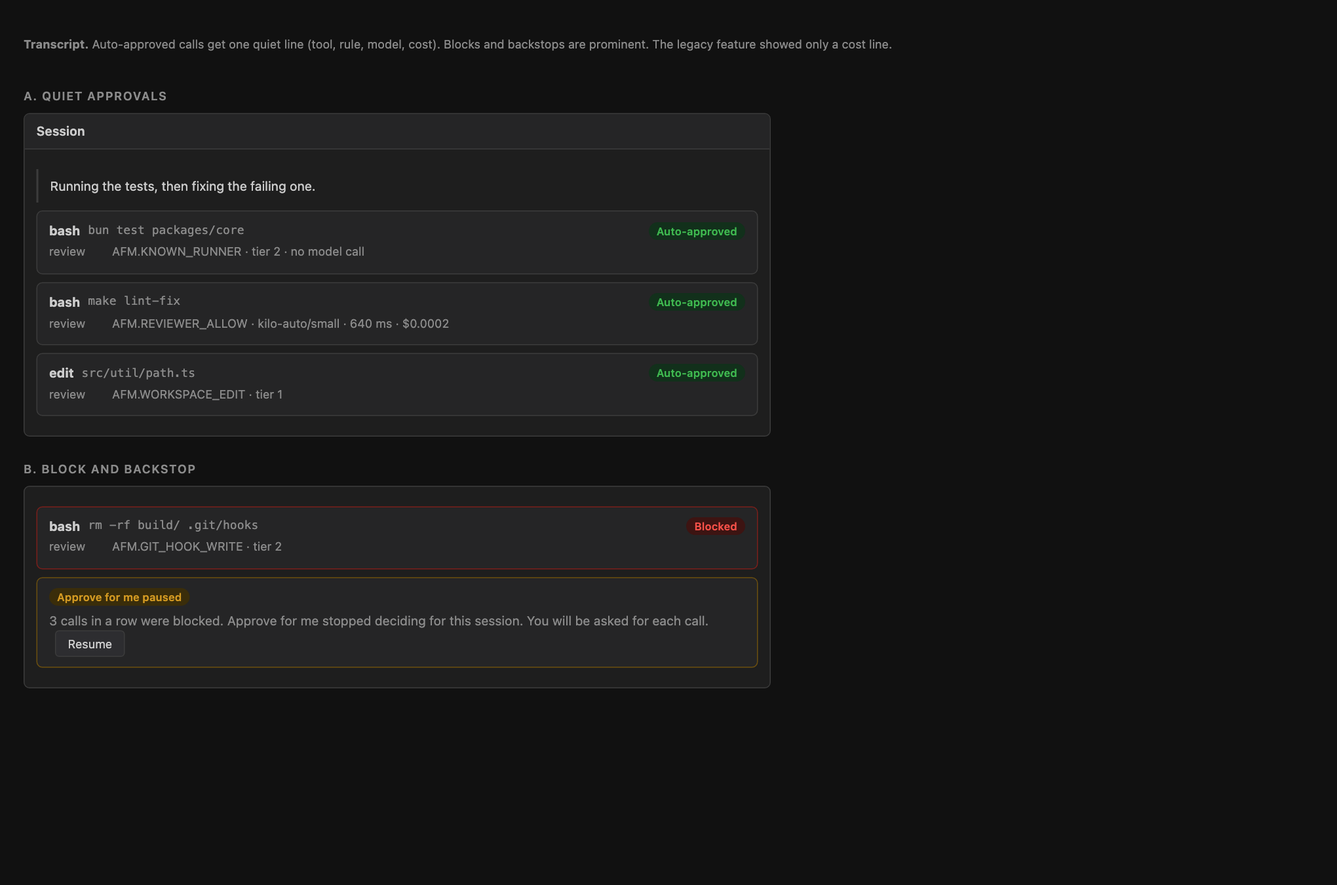
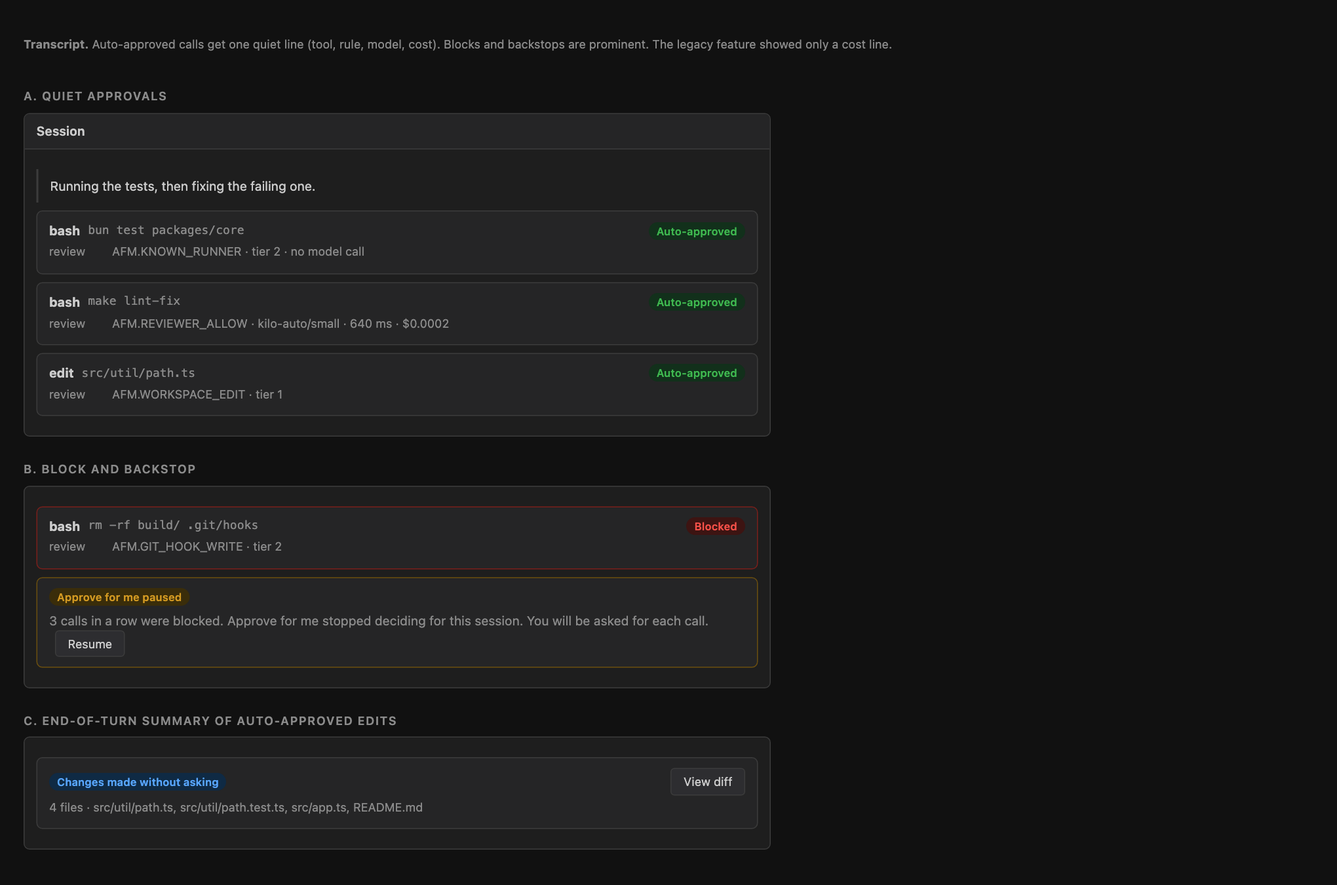
docs: resolve second-review security findings in the approve-for-me plan

Changed region(s): [[0.0309, 0.8711, 0.3088, 0.9333], [0.0309, 0.8089, 0.3088, 0.84], [0.4941, 0.84, 0.5868, 0.9022]]

diff --git a/plans/approve-for-me/mockups/03-transcript.html b/plans/approve-for-me/mockups/03-transcript.html
@@ -13,4 +13,7 @@
 <div class="line"><span class="t dim">review</span><span class="dim">AFM.GIT_HOOK_WRITE · tier 2</span></div></div>
 <div class="card warn"><div class="row"><span class="pill warn">Approve for me paused</span><span class="grow"></span></div>
 <div class="dim" style="margin-top:6px">3 calls in a row were blocked. Approve for me stopped deciding for this session. You will be asked for each call. <span class="btn" style="margin-left:6px">Resume</span></div></div></div></div></div>
+<div><h1>C. End-of-turn summary of auto-approved edits</h1><div class="frame wide"><div class="body">
+<div class="card"><div class="row"><span class="pill info">Changes made without asking</span><span class="grow"></span><span class="btn">View diff</span></div>
+<div class="line"><span class="dim">4 files · src/util/path.ts, src/util/path.test.ts, src/app.ts, README.md</span></div></div></div></div></div>
 </body></html>

diff --git a/plans/approve-for-me/design.md b/plans/approve-for-me/design.md
@@ -3,7 +3,7 @@
 Line numbers refer to `main` at `9d0f7a1dd8`. They drift. Re-check them when you implement.
 Paths starting with `P/` mean `packages/opencode/src/`.
 
-Security: the requirements from the security review are in section 12 (`SEC-1` to `SEC-11`) and are enforced in the sections they touch. Sections 1.2, 2.1, 2.5 to 2.9, 3, 5.2, 5.3, 6.1, 6.2, 8, 10 and 11 changed because of them.
+Security: the requirements from the security review are in section 12 (`SEC-1` to `SEC-13`) and are enforced in the sections they touch. Sections 1.2, 2.1, 2.5 to 2.11, 3, 5.1 to 5.3, 6.1, 6.2, 8, 10 and 11 changed because of them. A second review added `SEC-12` and `SEC-13` and nine medium items.
 
 ## 0. Mode model
 
@@ -113,6 +113,9 @@ So the reviewer never edits the ruleset. Instead:
 2. It issues a grant only if **every** pattern evaluates to `ask`. If any pattern is `deny`, vetoed, protected, or `forceAsk` (except the escalation case in 2.5), the verdict is forced to `pass` and the normal flow runs.
 3. The grant is passed to `Permission.ask` as a per-call argument `reviewed: { patterns, id }`. Inside `Permission.ask` a pattern with action `ask` and a matching grant is treated as allowed.
    A pattern with any other action ignores the grant. The grant has no wildcard form. It carries the exact patterns that were reviewed.
+   **The grant type is server-only (SEC-13).** It lives in the TypeScript-only extension of `AskInput`, like `hardRuleset` (`P/permission/index.ts:49`). It is never added to `PermissionV1.AskInput` or to `Request.fields`
+   (those feed the `permission.asked` event and the wire schema, `packages/schema/src/v1/permission.ts:27-66`), and it is never read from `metadata`, which plugin tools fill freely (`packages/plugin/src/tool.ts:19-27`).
+   No HTTP route decodes `AskInput` today. A test asserts that `metadata.reviewed`, `metadata.grant` and similar keys from a plugin tool have no effect.
 4. This needs one small marked change in `Permission.ask` (shared file). It is the only change planned there. It is covered by a property test (section 10): for every generated ruleset and request, a grant never turns `deny`, a hard veto, a protected path or a `skillShell` request into an allow.
 
 Either way `reply()` is never called by the reviewer, so `interactive` semantics stay intact.
@@ -220,8 +223,11 @@ With a default-on sandbox that is not workable: ordinary Git and network use wou
 
 1. Deterministic rules run first and cannot be overridden: git hook writes, `core.hooksPath`, config and control-plane writes, system paths,
    secret reads, destructive patterns. They give `ask` or `block`. In v1 the reviewer may only approve escalations in these deterministic classes:
-   `git add`, `git commit`, `git status` and `git diff` inside the workspace repository (with no `-c` or `--git-dir` flags), and network access to hosts already in `sandbox.allowed_hosts`.
-   Every other escalation asks the human until the PR 9 data supports widening. Dependency installs always ask (install scripts run unsandboxed).
+   `git add`, `git status` and `git diff` inside the workspace repository, pathspec-aware (section 2.10), with no `-c` or `--git-dir` flag and no `GIT_*` variable in the command.
+   **`git commit` asks in v1.** An escalated commit runs hooks and commit signing unsandboxed (`policy.ts:634-636`), and signing would use your key for a commit the reviewer approved.
+   It can join the fixed classes later only if the manifest (2.6) covers `.git/hooks/*`, `.git/config`, the `core.hooksPath` target and `.husky/**`, signing is off, and no hook exists that the human has not seen.
+   **Network escalations are not approved by the reviewer in v1.** A host already in `sandbox.allowed_hosts` needs no escalation, so a "host in the allowlist" class is empty or ambiguous. Network classes are defined from PR 9 data.
+   Every other escalation asks the human. Dependency installs always ask (install scripts run unsandboxed).
 2. Scope is the narrowest one: a per-call grant (section 1.2) for the exact normalized request. Never an `always` rule, never a saved host or path.
 3. The reviewer sees the denied capability as a fact (`denied: { network: "registry.npmjs.org:443" }`), and never the model-written justification text.
 4. Shadow mode first: record what the reviewer would do next to the human decision before the first real auto-approved escalation.
@@ -255,13 +261,15 @@ Rule: edits to the **executable-config class** are always `ask` (tier 0), throug
 | CI and hooks | `.github/workflows/**`, `.gitlab-ci.yml`, `.husky/**`, `.githooks/**`, `.gitattributes`, `.pre-commit-config.yaml` |
 | Shell and env | `.envrc`, `.tool-versions`, `.npmrc`, `.yarnrc*`, `bunfig.toml`, `.cargo/config*` |
 | Build and task runners | `package.json`, `Makefile`, `justfile`, `Taskfile*`, `Dockerfile*`, `docker-compose*`, `setup.py`, `pyproject.toml`, `tox.ini`, `pytest.ini`, `conftest.py`, `build.rs`, `Cargo.toml`, `*.gradle*`, `pom.xml` |
+| Executable files | any file with the executable bit or a shebang line, `scripts/**`, `bin/**`, `*.sh`, `*.mk`, `Rakefile`, `Gemfile`, `CMakeLists.txt`, `meson.build`, `deno.json*`, `mise.toml`, `flake.nix` |
 | Tool configs that run code | `*.config.{js,cjs,mjs,ts}`, `.babelrc*`, `.eslintrc*`, `jest.config.*`, `vitest.config.*`, `webpack.config.*`, `vite.config.*` |
 
-The list lives in one table in code and has a test per group. Adding to it needs no design change.
+The list lives in one table in code and has a test per group. Adding to it needs no design change. A name list is incomplete by nature, so the executable-bit and shebang rule classifies by content, not by name.
+Paths are normalised (NFC, case-folded, `realpath`) before matching.
 
 The manifest check covers files written by a running program (a test that rewrites the Makefile):
 
-- At session start, and after every edit the **human** approved, the engine records a hash of every file in the class (a manifest).
+- At session start, and after every edit the **human** approved, the engine records a hash of every file in the class (a manifest). The manifest also records **absence** (a new `Makefile` is a change) and includes `.git/config`, the non-sample files in `.git/hooks/`, and the `core.hooksPath` target directory.
 - Before approving a known runner, a reviewable call, or any escalation, it compares the current hashes with the manifest.
 - A mismatch means "changed outside human review". All runners and all escalations ask for the rest of the session, until the user acknowledges the change in a prompt that shows what changed.
 
@@ -277,7 +285,7 @@ Rules:
 
 1. `webfetch` and `websearch` are **ask by default** in this mode. The reviewer does not decide them.
 2. Narrow allowlist, decided by rules (no model): `https` only, exact host in a small built-in docs list plus the user's own list, no userinfo, no query string, no fragment, path length cap, port 443.
-3. Deterministic SSRF guard in the tool itself (prerequisite, section 12): block loopback, private, link-local and metadata addresses, check the resolved address and **every redirect hop**, reject non-http(s) schemes, reject userinfo.
+3. Deterministic SSRF guard in the tool itself (prerequisite, section 12): block loopback, private, link-local and metadata addresses, check the resolved address and **every redirect hop**, reject non-http(s) schemes, reject userinfo. **Pin the checked address to the connection** (no second lookup, to stop DNS rebinding). Normalise IPv6 (`::1`, `fc00::/7`, `::ffff:127.0.0.1`) and numeric IP forms (decimal, octal, hex) and trailing-dot hosts before checking. Apply the exact-host allowlist again on **every redirect hop**: a redirect to another host asks.
 4. **Sensitive-read taint.** After the session reads a sensitive-class file, every call that can send data out asks for the rest of the session. Outbound-capable means `webfetch`, `websearch`,
    MCP tools, `bash` with a network command or a network escalation, and `browser-open`. Sensitive class: the existing secret globs (`.env*`, `.netrc`, `.npmrc`, `id_*`, keystores, `.ssh`, `.aws`, `.kube`, `.docker`, `.gnupg`),
    cloud and CI credential files, `*.pem`, `*.key`, `terraform.tfstate*`, `credentials*`, and `.git/config`. The taint is per root session and survives subagents.
@@ -305,6 +313,28 @@ A committed `kilo.json` can set `permission` allow rules with no trust prompt (`
 count as `ask` before review, so the reviewer still decides. Global, managed and `KILO_PERMISSION` rules are honored, as they come from the user or the organisation.
 This matches how the sandbox scope treats project config (a project may tighten, never loosen).
 
+### 2.10 Secrets that reach the model by other routes (SEC-12)
+
+The sensitive-read taint (2.7) would only fire on the `read` tool. Secrets also reach the model through paths the taint cannot see today:
+
+- **`grep` and `glob`.** The permission pattern is the regex or glob, not a file path (`P/tool/grep.ts:43-53`), and `ReadPermission.harden` applies to `read` only (`P/kilocode/permission/read.ts:12`).
+  `grep` runs rg with `--hidden` and excludes only `.git` (`packages/core/src/ripgrep.ts:293-297`), so an untracked `.env`, `.npmrc` or `id_rsa` that is not git-ignored is searched and its matching lines are returned.
+- **Git read commands.** `git diff`, `git log -p`, `git show`, `git grep` and `git cat-file` are treated as read-only (`P/kilocode/agent/index.ts:87-109`, `P/kilocode/sandbox/git.ts`), with no pathspec handling. `git diff -- .env` prints a tracked secret.
+- **Programs.** A sandboxed runner can read any file (macOS allows `file-read*` globally, `seatbelt.ts:55`; Linux uses `--ro-bind / /`) and print it. The output reaches the model.
+
+Rules:
+
+1. `grep` and `glob` exclude the sensitive globs inside the tool (an ignore list added to the rg call). A search that names a sensitive path explicitly asks.
+2. Git read commands are pathspec-aware. Tier 2 appends exclusion pathspecs for sensitive globs, or asks when the repository tracks sensitive-class files and the command can print file contents.
+3. A **secret scanner runs on every tool output** before it reaches the model (cloud and CI token shapes, PEM headers, private-key blocks, `.env`-style `KEY=value` lines with high entropy). A hit sets the taint and shows a notice.
+4. The taint is set by any of these routes, not only by `read`. It stays per root session and survives subagents.
+
+### 2.11 Auto-approved edits stay visible
+
+Tier 1 auto-approves source edits, and the reviewer cannot protect against a harmful change in a file the sandbox only contains (a backdoor in source, a bad commit later).
+So every auto-approved edit is recorded, and at the end of each turn the client shows a short summary ("4 files changed without asking", with a link to the diff).
+Commits stay on the human path (2.5.3). The summary is a client feature in PR 6.
+
 ## 3. Tool coverage (v1 policy)
 
 Permission key to policy. Source for keys and metadata: the tool survey of `P/tool/*` and `P/kilocode/tool/*`.
@@ -313,7 +343,8 @@ Permission key to policy. Source for keys and metadata: the tool survey of `P/to
 |---|---|---|
 | `bash` | tree-sitter patterns; `command`, `description`, heredocs | Tier 2, then tier 3 |
 | `edit` (edit, write, apply_patch) | relative paths; `filepath`, `diff`, `filediff` | Tier 1 in workspace and ordinary; tier 0 for protected paths and the executable-config class (2.6) |
-| `read`, `glob`, `grep` | path or pattern | Tier 1; secret reads tier 0 |
+| `read` | path | Tier 1; secret reads tier 0 |
+| `glob`, `grep` | glob or regex (not a path) | Tier 1 only with the sensitive-glob exclusion and the output scan in 2.10. A result that touches a sensitive path sets the taint |
 | `external_directory` | `dir/*` | Tier 0 |
 | `webfetch` | `url`, `format` | Ask. Auto only for the exact-host docs allowlist in 2.7. Never reviewer |
 | `websearch` | `query` | Ask in v1 (a query can carry data out, 2.7). Revisit with data |
@@ -372,6 +403,9 @@ It never receives: chat history, assistant prose (including the tool `descriptio
 tool output, file contents, environment values, absolute paths outside the workspace, or secrets.
 A byte budget (about 8 KB) applies. If the decision-critical part does not fit, the reviewer is not called and the answer is `ask`.
 
+**Structure, not literals.** Argument literals are not sent as text. The program and flags from a known set are sent as they are. Every other literal becomes a typed placeholder (`<path:ordinary>`, `<number>`, `<string>`).
+Paths are sent as class plus the in-workspace relative path, after control and bidi characters are removed and the length is capped. Redaction of "secret-like" tokens is not relied on, because a heuristic misses cases.
+
 ### 5.2 Prompt
 
 Start from the legacy principles (`legacy-gatekeeper.md` section 4) and the #13893 framing. Skeleton:
@@ -387,6 +421,7 @@ Reply with JSON only: {"decision":"allow"|"keep_ask","reason_code":"SHORT_UPPER_
 Rules for the call:
 
 - No tools. `small: true`. One retry on transport error only, inside one shared deadline (3 to 5 s).
+- Temperature 0. For **escalations**, two independent calls with different prompt wording (and, when available, a second model) must both return `allow`. Any disagreement is `keep_ask`.
 - Parse: first `{` to last `}`, `JSON.parse`, `decision` must be exactly `allow` or `keep_ask`. Anything else is `keep_ask` with `AFM.INVALID_RESPONSE`.
   A missing `reason_code` becomes `UNSPECIFIED`. Never `startsWith`.
 - On timeout, error, abort or unparsable reply: `keep_ask`. Never allow on failure.
@@ -453,7 +488,9 @@ The `approve_for_me` config key was removed from that PR on purpose: nothing rea
    - The mode endpoints and the permission reply endpoint join that always-guarded set. Without a password they refuse. In that case Approve for me and Auto-approve are unavailable and sessions stay in Sandboxed (ask), with a warning.
    - `interactive` is documented as **not** a security boundary. Human-only protection relies on authentication.
    - A change to a looser mode (toward Auto-approve or sandbox off) is published as an event, shown in the transcript ("Mode changed to Auto-approve by <client>"), and recorded in telemetry.
-   - The tool environment keeps being scrubbed of server credentials (`P/kilocode/process/env.ts`). A test asserts it, and also that the sandbox blocks loopback in the sandboxed modes.
+   - The tool environment keeps being scrubbed of server credentials (`P/kilocode/process/env.ts`). A test asserts it, and also that the sandbox blocks loopback in the sandboxed modes (it does today: seatbelt denies outbound including loopback, bubblewrap uses an empty network namespace and hides host processes).
+   - Follow-up: move the credential out of the environment. Same-user processes can read an environment variable (`/proc/<pid>/environ`, `ps eww`). Use an inherited file descriptor or a mode-0600 Unix socket.
+   - Standalone `kilo serve` or `kilo run` without a credential cannot use Approve for me or Auto-approve. This follows from the design and must be confirmed as a product decision.
 7. **`always` is once-only in Approve for me.** An `always` reply writes a global rule (`P/permission/index.ts:342-366`) shared by all sessions and subagents, which would then bypass the reviewer. In this mode `always` is stored as once,
    or accepted only with a narrow pattern (no `*`, no bare-prefix wildcard) and a warning.
 8. **Child sessions inherit the stricter mode (SEC-9).** A subagent starts in the stricter of the parent's mode and its own default. Counters (backstop, escalation cap) and taints (2.6, 2.7) key on the **root** session, so spawning a child does not reset them.
@@ -462,6 +499,8 @@ The `approve_for_me` config key was removed from that PR on purpose: nothing rea
    - Import drops `permission` and `mode`, validates the rest, and starts the session in the user's default mode.
    - Moving a session between local and cloud never makes it looser: the destination takes the stricter of the source mode and the destination default. Auto-approve and sandbox-off always need a new confirmation on the destination.
    - A test imports a crafted file and asserts that the ruleset and mode are not applied.
+10. **Managed policy.** Organisations can pin behavior with managed-scope keys only (ignored in global and project config): `approve_for_me.allowed_modes`, `approve_for_me.escalation_approval` (`on` or `off`), `approve_for_me.model`, and `sandbox.required`. An admin can disable Auto-approve and Approve for me entirely. Managed config already exists (`P/config/config.ts:973-1003`).
+11. **Consent for the review stage.** The first time the stage is `review` or `on`, show a one-time notice that structured command facts go to the reviewer model's provider, even in shadow mode where nothing is enforced. Respect `privacy_mode`.
 
 ### 6.3 Required chores for any new config key
 
@@ -508,6 +547,9 @@ Invariants (each gets a test):
 11. No allow cache. Reviewer settings come from environment and global config only, and the provider entry must match the global one (SEC-3, SEC-5).
 12. Mode and permission state never arrive from a project, an import or a share, and the mode API needs authentication (SEC-7, SEC-8).
 13. Project-scope allow rules do not bypass review in this mode (SEC-10).
+14. The grant exists only in server code. It is never in a schema, an event or `metadata` (SEC-13).
+15. Tool output that looks like a secret sets the outbound taint, whatever tool produced it (SEC-12).
+16. Escalations approved by the reviewer are limited to the deterministic classes in 2.5.3. Commits and network escalations ask in v1.
 
 Threats and answers:
 
@@ -526,6 +568,11 @@ Threats and answers:
 | Parser and shell disagree (zsh, aliases, login rc, project `shell`) | Section 2.8: strict subset, bash or zsh only, differential tests |
 | Agent or file changes the mode or imports allow-all | Section 6.2 items 6 to 9 |
 | Project `kilo.json` allows everything | Section 2.9 |
+| A plugin tool or a client forges a grant | Server-only grant type, never read from `metadata` (1.2, SEC-13) |
+| Secrets reach the model through `grep`, `glob`, git read commands or program output | Section 2.10: tool-side exclusions, pathspec-aware git, output scanner, taint |
+| Escalated `git commit` runs hooks or signs unsandboxed | `git commit` asks in v1; manifest covers hooks (2.5.3, 2.6) |
+| Unreviewed source edit plants a backdoor | Section 2.11: recorded edits, end-of-turn summary, commits on the human path |
+| Reviewer text injection through argument literals | Structure-only input, temperature 0, two-call consensus for escalations (5.1, 5.2) |
 | Agent requests an escalation to get out of the sandbox | Section 2.5: deterministic rules first, narrowest scope, facts-only input, caps, shadow mode |
 | Repeated retries of a blocked call | Backstop: stop auto-deciding after 3 consecutive blocks or 5 in the last 20 calls, and tell the user (numbers from #13893 `continuation.ts:36`) |
 | Reviewer cost abuse or latency | Tiers first, cache, deadline, per-session call cap |
@@ -569,6 +616,8 @@ Evaluation:
   - SEC-7: mode and reply endpoints refuse without credentials. Tool environment contains no server credential. Loosening is logged.
   - SEC-8: crafted export and import files do not apply permission or mode. A session move never loosens.
   - SEC-9 and SEC-10: child mode and counters. Project-scope allow rule counts as ask.
+  - SEC-12: `grep` and `glob` never return `.env`, `.npmrc` or key files. `git diff -- .env` and `git show` of tracked secrets are excluded or ask. The output scanner sets the taint on token shapes and PEM blocks.
+  - SEC-13: `metadata.reviewed` and similar keys from a plugin tool have no effect. The grant type is absent from every schema and event.
   - SEC-11: a workspace `.vscode/settings.json` value for either setting has no effect. Writes go to user settings. At startup Approve for me wins.
 
 ## 11. Keeping the upstream diff small
@@ -606,7 +655,13 @@ Findings from the security review, and where each is resolved. IDs are used in c
 | SEC-10 | Project `kilo.json` can allow everything with no trust prompt | Local-scope allow rules count as `ask` in this mode | 2.9 |
 | SEC-11 | VS Code `autoApprove.enabled` could be set by a workspace file, live (fixed in #14636) | Scope both settings to the application (user only). Writes always go to user settings. `.vscode/` and IDE dirs protected as defense in depth | 6.1, #14636 |
 
+| SEC-12 | Secrets reach the model through `grep`, `glob`, git read commands and program output. The taint misses them | Tool-side exclusions, pathspec-aware git, output secret scanner sets the taint | 2.10 |
+| SEC-13 | The grant could be forged through the schema or plugin `metadata` | Server-only type, never in a schema, event or `metadata` | 1.2 |
+
 SEC-9, SEC-10 and the once-only `always` rule (6.2 item 7) were medium findings. They are included because they use the same code and would otherwise leave a gap in a high fix.
 
-Medium and low findings that stay open and are tracked in the roadmap: reviewer injection residuals and model drift (evaluation, PR 9), privacy and redaction of command text (PR 7, PR 10), prompt spoofing in the permission dock (PR 6),
-the JetBrains and other client-side auto-reply (PR 2), TOCTOU and parallel calls (PR 8 gate), backstop counting of asks (PR 8).
+The second review's medium findings are folded in: escalated commits and the network class (2.5.3), a wider executable-config class and manifest (2.6), SSRF details (2.7), structure-only reviewer input and consensus (5.1, 5.2),
+the consent notice, credential handling and managed policy (6.2), and visible auto-approved edits (2.11).
+
+Still open and tracked in the roadmap: reviewer injection residuals and model drift (evaluation, PR 9), prompt spoofing in the permission dock (PR 6), other clients that auto-reply, including JetBrains (PR 2),
+TOCTOU and parallel calls (PR 8 gate), backstop counting of asks (PR 8), the bubblewrap `.git` protection that is computed at launch (S6 follow-up).

diff --git a/plans/approve-for-me/roadmap.md b/plans/approve-for-me/roadmap.md
@@ -99,6 +99,8 @@ Done when: the corpus runs in CI; every attack in the seed corpus is `ask` or `b
 
 ### PR 6. Show the verdict (labels only)
 
+- End-of-turn summary of auto-approved edits ("4 files changed without asking", with a link to the diff), `design.md` 2.11.
+- The permission dock shows the full command, escapes control and bidi characters, and marks truncation (prompt spoofing).
 - VS Code `PermissionDock`: badge and localised one-line reason from the rule id. Escalation prompts show what the sandbox denied.
 - VS Code transcript line for recorded verdicts (hidden unless `review` or `on`).
 - TUI prompt and footer. JetBrains: render `meta.raw` review fields.
@@ -111,7 +113,9 @@ Done when: a flagged command shows a label in all three clients, with no change 
 - Reviewer module: input builder with byte budget, prompt, strict parser, deadline and retry, live re-check, per-session cache.
 - Model resolution through the S3 resolver (global config or env only, provider equality, pinned model id); reject OpenAI providers for this role; clear message when no model is available.
 - No allow cache (SEC-5). Only ask results may be cached.
-- Redaction of secret-like tokens in argv and URLs before anything is sent (privacy, medium finding).
+- Structure-only reviewer input: typed placeholders for argument literals, path class plus capped, cleaned relative path (`design.md` 5.1). No reliance on token redaction.
+- Temperature 0, and two-call consensus (different prompt wording, second model when available) for escalations.
+- One-time consent notice before the `review` or `on` stage sends facts to the reviewer's provider; honor `privacy_mode` (`design.md` 6.2 item 11).
 - Input hardening: JSON-encode all strings, strip control and bidi characters, length caps.
 - Cost and latency recorded in `metadata.review`, telemetry, and the task cost.
 - Tests with `TestLLMServer`: allow, keep_ask, garbage, empty, timeout, abort, oversized input (reviewer not called), injection strings in argv.
@@ -130,11 +134,13 @@ Done when: in `review` stage the reviewer runs on `reviewable` calls and escalat
 
 Security gate. PR 8 does not merge until all of these hold:
 
-- S1 to S5 are merged and #14636 has its SEC-11 changes.
+- S1 to S6 are merged and #14636 has its SEC-11 changes.
 - Every security test group in `design.md` section 10 passes in CI.
 - The grant property test runs in CI on every change to `Permission.ask`.
 - The shell differential corpus passes for bash and zsh.
-- Escalation approval is limited to the deterministic classes in `design.md` 2.5.3 (widening waits for PR 9 data).
+- Escalation approval is limited to the deterministic classes in `design.md` 2.5.3: `git add`, `status` and `diff`. `git commit` and network escalations ask in v1 (widening waits for PR 9 data and the hook manifest).
+- The output secret scanner, the `grep` and `glob` exclusions and pathspec-aware git (S6, `design.md` 2.10) are enabled and tested.
+- The grant type is server-only: no schema, event or `metadata` carries it (SEC-13 test).
 - Review of the TOCTOU gap: paths are re-resolved inside the tool at execution time, and reviewed calls run one at a time per session. Record the result in the PR.
 - A reviewer from outside the author team has read `design.md` sections 2.5 to 2.9, 5.3 and 6.2.
 
@@ -153,6 +159,7 @@ Done when: dogfood users run a normal session with fewer prompts and no unsafe a
 
 - One settings page for permissions and sandbox: default mode, sandbox network/hosts/paths, reviewer model (non-OpenAI list), timeout, escalation toggle, "what is reviewed" table.
 - Legacy import: map `yoloMode` and `yoloGatekeeperApiConfigId` (`legacy-gatekeeper.md` section 10). Never produce Auto-approve from a guarded setup.
+- Managed-scope policy keys: `approve_for_me.allowed_modes`, `approve_for_me.escalation_approval`, `approve_for_me.model`, `sandbox.required` (`design.md` 6.2 item 10).
 - User docs in `packages/kilo-docs`, including limits: not a replacement for review, build and test commands run project code, data sent to the reviewer, behavior without a sandbox.
 
 ### PR 11. Graduation
@@ -161,17 +168,20 @@ Done when: dogfood users run a normal session with fewer prompts and no unsafe a
 - Turn the sandbox on by default only if PR 9 thresholds hold. Provide good defaults for common hosts and paths.
 - Remove `plans/approve-for-me/`.
 
-### Security prerequisites (S1 to S5)
+### Security prerequisites (S1 to S6)
 
-These small PRs fix existing gaps that Approve for Me would otherwise inherit. They are useful on their own. **PR 8 (active mode) cannot start until S1 to S5 are merged** (section 2).
+These small PRs fix existing gaps that Approve for Me would otherwise inherit. They are useful on their own. **PR 8 (active mode) cannot start until S1 to S6 are merged** (section 2).
 
 | # | PR | Fixes | Notes |
 |---|---|---|---|
-| S1 | `webfetch` SSRF guard: block loopback, private, link-local and metadata addresses, re-check every redirect and the resolved address, reject userinfo and non-http(s) | SEC-4 | Shared file `P/tool/webfetch.ts`. Independent of this feature. Tests for each case |
-| S2 | Executable-config class and wider protected paths in the edit tools (`P/kilocode/permission/config-paths.ts`), with the manifest helper | SEC-2 | Kilo-owned file. Applies to every mode, not only Approve for Me |
+| S1 | `webfetch` SSRF guard: block loopback, private, link-local and metadata addresses, pin the checked address to the connection, normalise IPv6 and numeric IP forms, re-check the allowlist and the address on every redirect, reject userinfo and non-http(s) | SEC-4 | Shared file `P/tool/webfetch.ts`. Independent of this feature. Tests for each case |
+| S2 | Executable-config class (names plus executable-bit and shebang rule) and wider protected paths in the edit tools (`P/kilocode/permission/config-paths.ts`), with the manifest helper (records absence, covers `.git/config` and hooks) | SEC-2 | Kilo-owned file. Applies to every mode, not only Approve for Me |
 | S3 | Reviewer resolver (global-only, provider equality, `${` rejected, per directory). Separate issue and fix for the same defect in `getSmallModel` callers | SEC-3 | Resolver is Kilo-owned. The existing-callers fix touches shared `provider.ts`, so keep it minimal |
 | S4 | Session export, share and import: drop `permission` and `mode`; import validates | SEC-8 | `P/cli/cmd/export.ts`, `P/cli/cmd/import.ts`. Independent of this feature |
 | S5 | Mode and permission-reply endpoints always authenticated; no password means no loosening modes; tool env test | SEC-7 | `P/server/middleware/authorization.ts` |
+| S6 | `grep` and `glob` exclude sensitive globs inside the tool; pathspec-aware git read commands; secret scanner on tool output that sets the taint | SEC-12 | `P/tool/grep.ts`, `P/tool/glob.ts` (shared, small), scanner and git logic in Kilo-owned files. Applies to every mode |
+
+The grant type needs no S item: it is part of PR 4 (`design.md` 1.2, SEC-13).
 
 Each S item has its own tests (`design.md` section 10). S1, S4 and S5 are also worth reporting as standalone issues, because the gaps exist today.
 
@@ -183,7 +193,7 @@ Each S item has its own tests (`design.md` section 10). S1, S4 and S5 are also w
                 4 -> 7 -> 8 -> 9 -> 10 -> 11
 ```
 
-6 can start after 4. 7 needs 4 and S3. 8 needs 3, 5, 7 and **S1 to S5**. 10 needs 8. PR 3 has value without the reviewer and can ship early. S1 to S5 are independent of each other and can start now.
+6 can start after 4. 7 needs 4 and S3. 8 needs 3, 5, 7 and **S1 to S6**. 10 needs 8. PR 3 has value without the reviewer and can ship early. S1 to S6 are independent of each other and can start now.
 
 ## 3. Rollout
 
@@ -204,7 +214,7 @@ Keep the flag-off path identical to today. A test asserts it.
 |---|---|
 | 0 Plan | This PR |
 | 1 Entry point | Open: #14636 |
-| S1 to S5 | Not started (can start now) |
+| S1 to S6 | Not started (can start now) |
 | 2 to 11 | Not started |
 
 ## 5. Work split with the community effort

diff --git a/plans/approve-for-me/README.md b/plans/approve-for-me/README.md
@@ -102,7 +102,7 @@ Full list with acceptance criteria is in [`roadmap.md`](./roadmap.md).
 
 | # | PR | Behavior change |
 |---|---|---|
-| S1 to S5 | Security prerequisites: webfetch SSRF guard, executable-config paths, reviewer resolver, import and export, authenticated mode API | Fixes existing gaps |
+| S1 to S6 | Security prerequisites: webfetch SSRF guard, executable-config paths, reviewer resolver, import and export, authenticated mode API | Fixes existing gaps |
 | 0 | This plan | None |
 | 1 | Entry point + exclusion + mode menu (#14636) | None (hidden UI) |
 | 2 | Mode model: per-session state, flag, trust scope; selector becomes Approve for me / Sandboxed / Auto-approve and drives the sandbox | Behind the flag |
@@ -149,7 +149,7 @@ reviewer cost counts toward task cost.
 
 ## 7. Security
 
-A security review of this plan found nine high-severity and several medium-severity issues. All high findings are resolved in the design (`design.md` section 12, `SEC-1` to `SEC-11`).
+Two security reviews of this plan found eleven high-severity and several medium-severity issues. All high findings are resolved in the design (`design.md` section 12, `SEC-1` to `SEC-13`), and the medium findings of the second review are folded in.
 
 | Area | Rule in one line |
 |---|---|
@@ -158,12 +158,17 @@ A security review of this plan found nine high-severity and several medium-sever
 | Reviewer model | Global config and environment only. The provider entry must match the global one |
 | Data leaving | `webfetch`, `websearch` and MCP ask by default. SSRF guard. Outbound calls ask after a secret was read |
 | Cache | No allow cache |
+| Secrets reaching the model | `grep`, `glob` and git read commands exclude or ask on sensitive paths. An output scanner sets the outbound taint |
+| Grant | Server-only type. Never in a schema, event or `metadata` |
+| Escalations | v1 reviewer approves only `git add`, `status`, `diff`. `git commit` and network escalations ask |
+| Reviewer input | Structure and placeholders, not argument text. Consent notice before facts leave the machine |
+| Organisations | Managed-scope keys can disable the modes or force the model |
 | Shell | Strict simple-command subset. bash or zsh only, not chosen by the project. Off on Windows |
 | Mode and permissions | Mode API always authenticated. Import, export and share never carry permission or mode |
 | Project config | Project allow rules do not bypass review. Project config cannot set the mode or the model |
 | VS Code | Auto-approve and Approve for me settings scoped to the user (application scope). A workspace file cannot set either |
 
-The roadmap has five security prerequisites (S1 to S5) that must merge before the mode can approve anything.
+The roadmap has six security prerequisites (S1 to S6) that must merge before the mode can approve anything.
 
 ## 8. Planned UI
 
